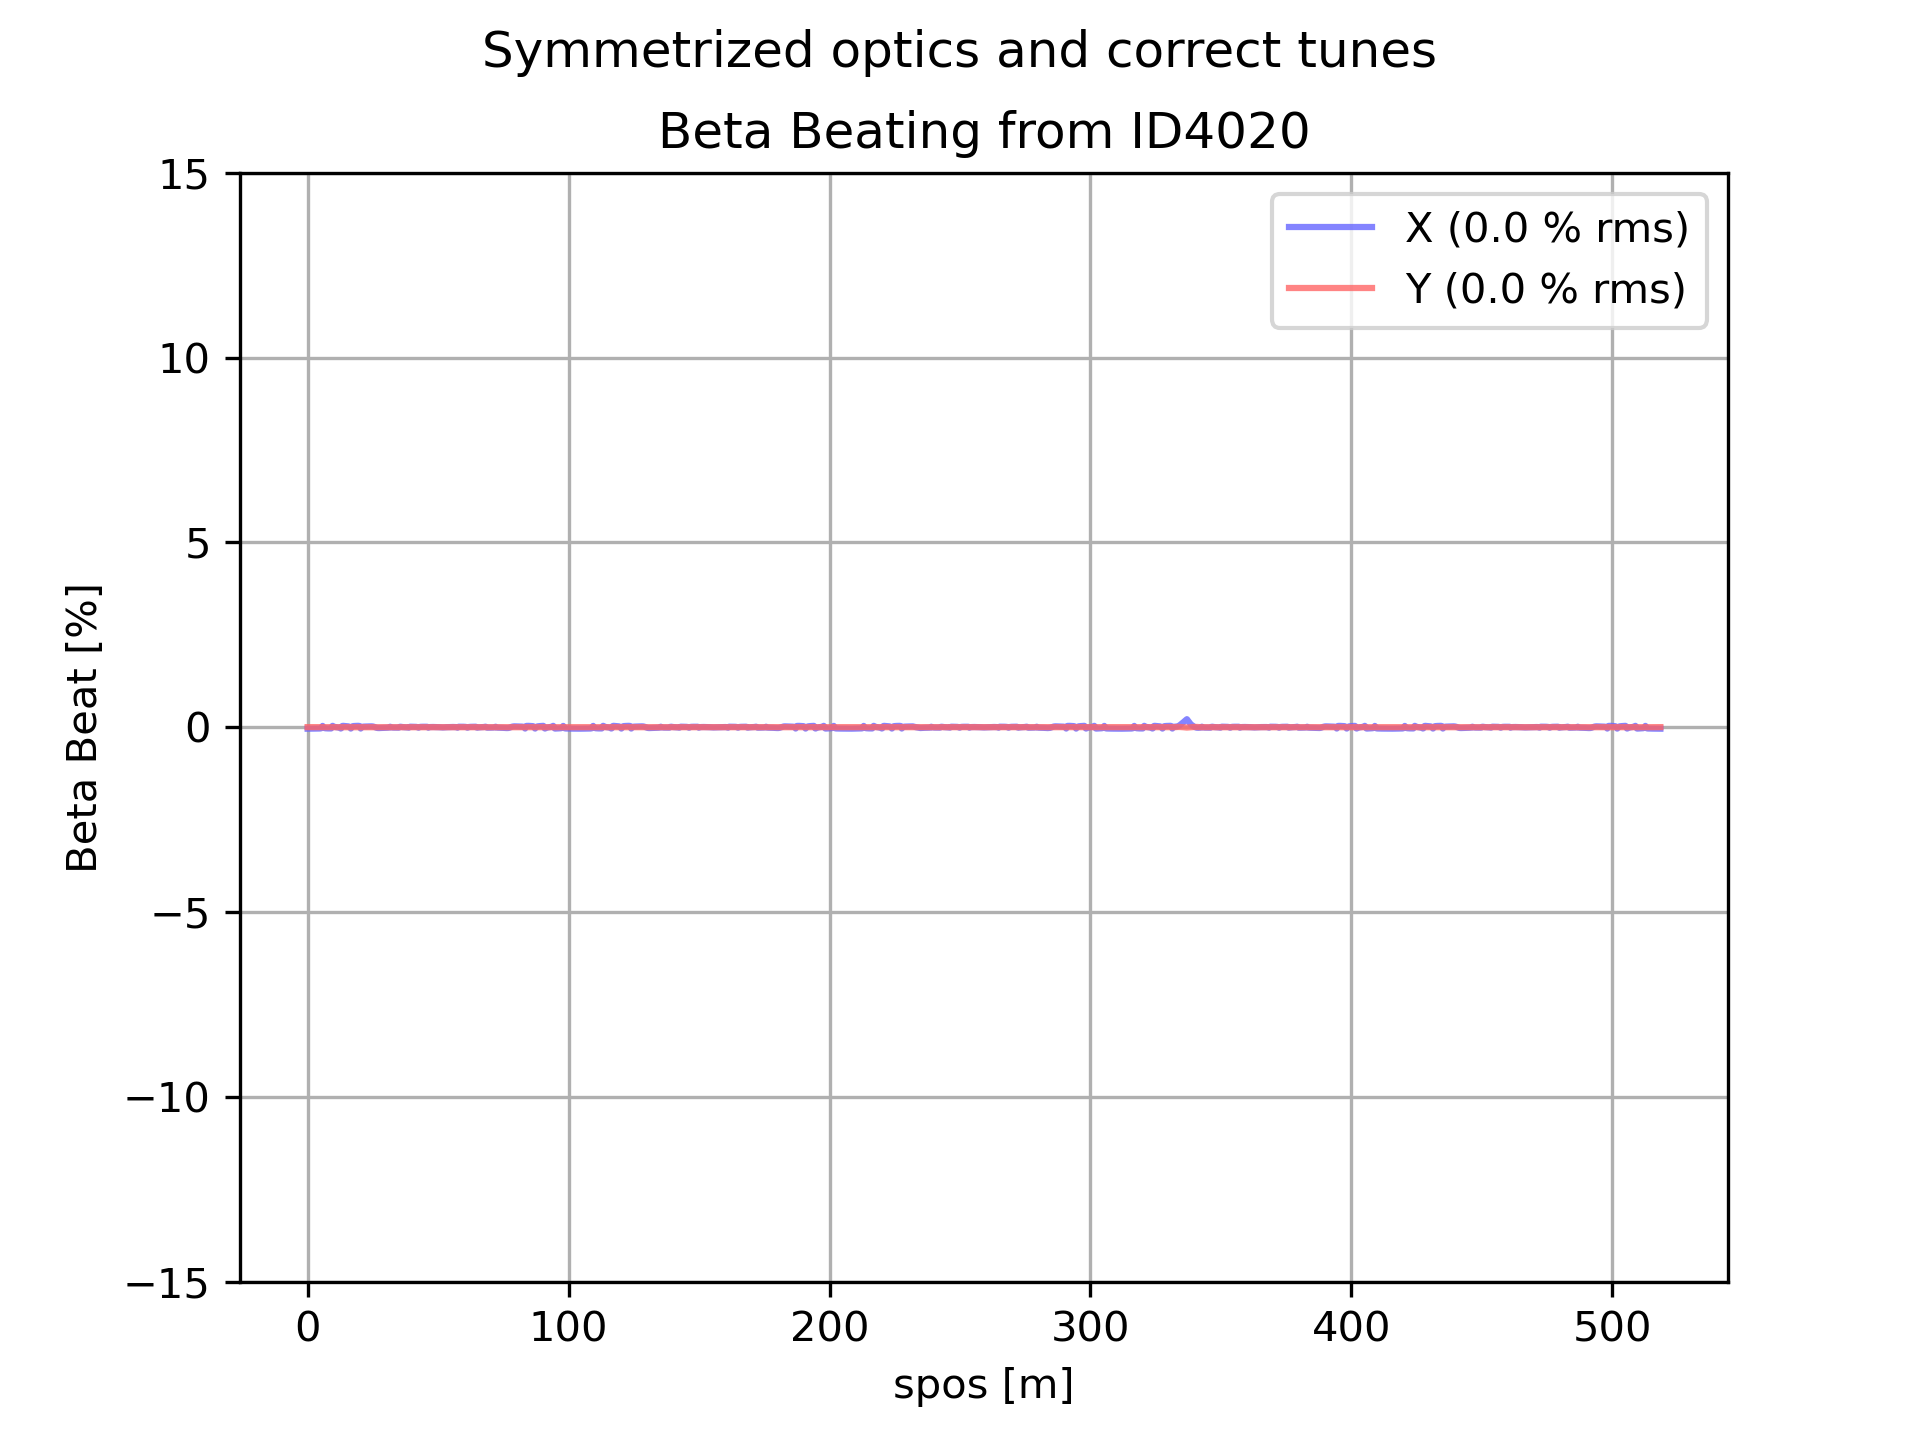
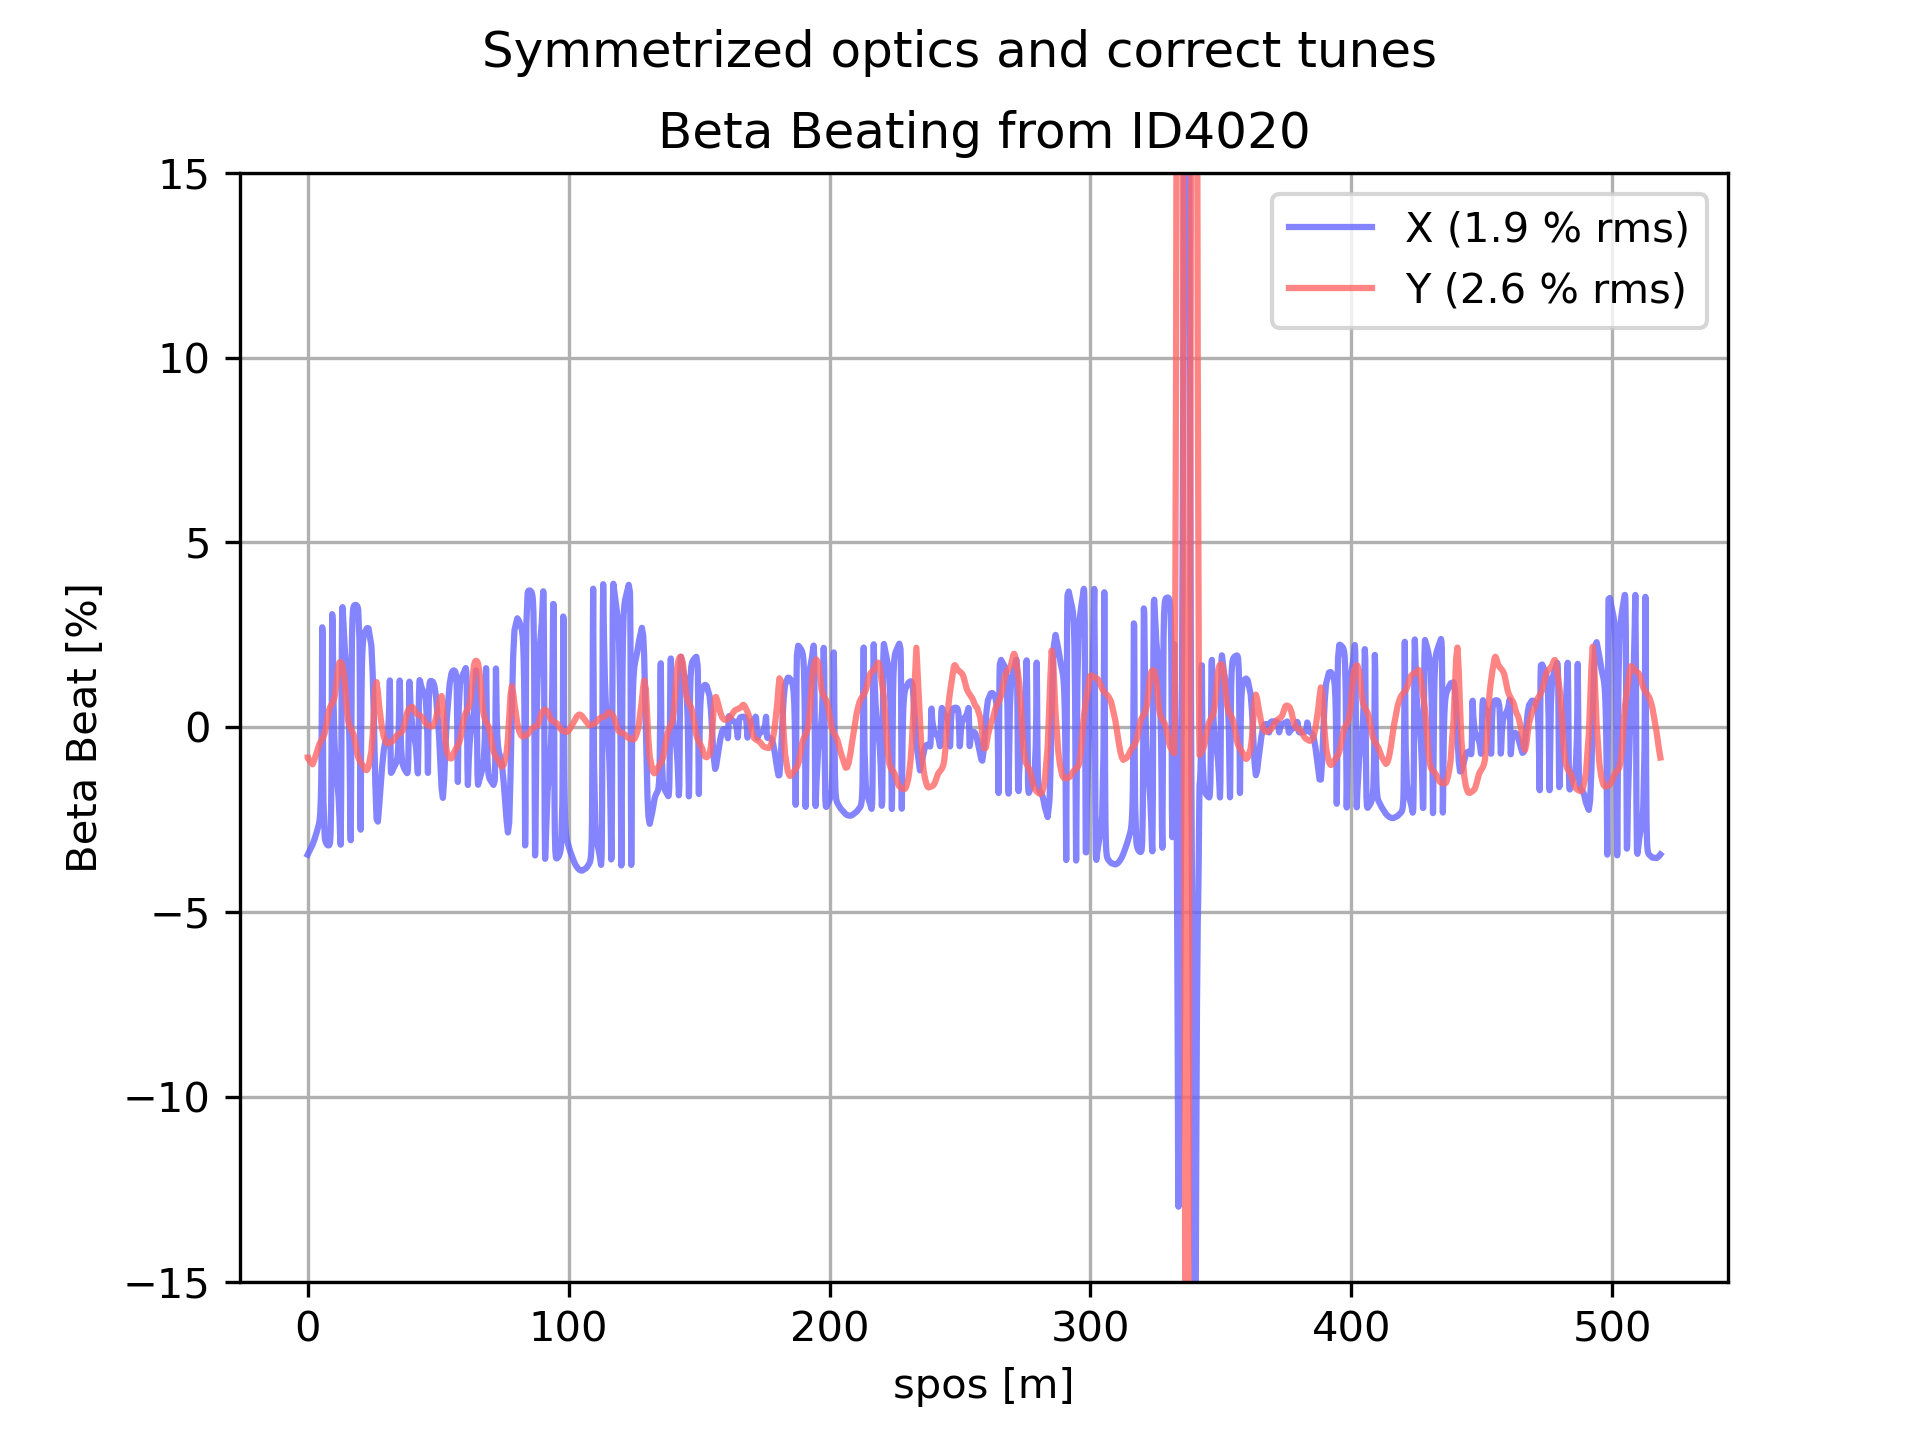
update wiggler scripts

Changed region(s): [[0.1562, 0.125, 0.875, 0.9062], [0.75, 0.1875, 0.7812, 0.2188]]

diff --git a/scripts/epu/legacy/symmetrization.py b/scripts/epu/legacy/symmetrization.py
@@ -2,6 +2,7 @@
 
 import numpy as np
 import matplotlib.pyplot as plt
+import utils
 
 from pyaccel.optics import twiss
 from pyaccel import optics as pyacc_opt
@@ -12,67 +13,34 @@ from idanalysis import optics as optics
 from idanalysis import model as model
 from idanalysis import optics as optics
 from idanalysis import EPUData
+from run_rk_traj import PHASES, GAPS
+
 import idanalysis
+import pymodels
 import pyaccel
 idanalysis.FOLDER_BASE = '/home/gabriel/repos-dev/'
 
 
-def create_epudata():
-    folder = idanalysis.FOLDER_BASE + EPUData.FOLDER_EPU_MAPS
-    configs = EPUData.EPU_CONFIGS
-    epudata = EPUData(folder=folder, configs=configs)
-    return epudata
-
-
-def create_model(epu_config_idx=None, rescale_kicks=1.0, **kwargs):
-    """Create pyaccel model."""
-
-    vchamber_on = kwargs.get('vchamber_on', False)
-    straight_nr = kwargs.get('straight_nr', None)
-
-    if epu_config_idx is None:
-      # create model withou IDs, if the case
-      model_ = model.create_model(ids=None, vchamber_on=vchamber_on)
-      config_label = None
-    else:
-
-      # create object with list of all possible EPU50 configurations
-      configs = create_epudata()
-
-      # get config label
-      config_label = configs.get_config_label(configs[epu_config_idx])
-
-      # list of IDs
-      nr_steps = kwargs.get('nr_steps', 40)
-      kmap_fname = configs.get_kickmap_filename(configs[epu_config_idx])
-      ids = model.get_id_epu_list(
-        kmap_fname, ids=None, nr_steps=nr_steps, rescale_kicks=rescale_kicks,
-        straight_nr=straight_nr)
-
-      # create model
-      model_ = model.create_model(ids=ids, vchamber_on=False)
-
+def create_model_ids():
+    """."""
+    print('--- model with kickmap ---')
+    ids = utils.create_ids(phase, gap, rescale_kicks=20)
+    model = pymodels.si.create_accelerator(ids=ids)
+    model.cavity_on = True
+    model.radiation_on = 1
+    twiss, *_ = pyaccel.optics.calc_twiss(model, indices='closed')
+    print('length : {:.4f} m'.format(model.length))
+    print('tunex  : {:.6f}'.format(twiss.mux[-1]/2/np.pi))
+    print('tuney  : {:.6f}'.format(twiss.muy[-1]/2/np.pi))
+    straight_nr = int(ids[0].subsec[2:4])
     # get knobs and beta locations
     if straight_nr is not None:
-      _, knobs, _ = optics.symm_get_knobs(model_, straight_nr)
-      locs_beta = optics.symm_get_locs_beta(knobs)
+        _, knobs, _ = optics.symm_get_knobs(model, straight_nr)
+        locs_beta = optics.symm_get_locs_beta(knobs)
     else:
-      knobs, locs_beta = None, None
+        knobs, locs_beta = None, None
 
-    return model_, config_label, knobs, locs_beta
-
-
-def create_model_with_id(id_config_idx, rescale_kicks=1.0, straight_nr=None):
-    if straight_nr is None:
-        straight_nr = 10
-    kwargs = {
-        'vchmaber_on': False,
-        'nr_steps': 40,
-        'straight_nr': straight_nr,
-    }
-    model1, config_label, *_ = \
-    create_model(epu_config_idx=id_config_idx, rescale_kicks=rescale_kicks, **kwargs)
-    return model1, config_label, straight_nr
+    return model, knobs, locs_beta
 
 
 def get_locs(model):
@@ -80,7 +48,8 @@ def get_locs(model):
     _, knobs, _ = optics.symm_get_knobs(model, straight_nr)
     locs_beta = optics.symm_get_locs_beta(knobs)
     locs = optics.symm_get_locs(model)
-    idx_begin, idx_end = optics.get_id_straigh_index_interval(model, straight_nr)
+    idx_begin, idx_end = optics.get_id_straigh_index_interval(
+        model, straight_nr)
     for loc in locs:
         if loc > idx_begin and loc < idx_end:
             sym_idx = loc
@@ -256,8 +225,7 @@ def run():
     loc_init, loc_mid, loc_end, knobs = get_locs(model0)
 
     # create model with id
-    model_id, *_ = create_model_with_id(id_config_idx=2,
-                 rescale_kicks=1.0, straight_nr=10)
+    model_id, *_ = create_model_ids()
     twiss1, *_ = pyacc_opt.calc_twiss(model_id, indices='closed')
 
     # calc optics for each model
@@ -282,4 +250,7 @@ def run():
 
 
 if __name__ == '__main__':
+
+    global phase, gap
+    phase, gap = PHASES[2], GAPS[-2]
     run()

diff --git a/scripts/wiggler/utils.py b/scripts/wiggler/utils.py
@@ -9,8 +9,8 @@ from idanalysis import IDKickMap
 
 ID_PERIOD = 180.0  # [mm]
 
-# FOLDER_BASE = '/home/gabriel/repos-dev/'
-FOLDER_BASE = '/home/ximenes/repos-dev/'
+FOLDER_BASE = '/home/gabriel/repos-dev/'
+# FOLDER_BASE = '/home/ximenes/repos-dev/'
 
 
 DATA_PATH = 'wiggler-2T-STI/measurement/magnetic/hallprobe/'
@@ -26,18 +26,18 @@ ID_CONFIGS = {
     'ID3979': 'gap 059.60mm/2022-08-25_WigglerSTI_059.60mm_U+0.00_D+0.00_Fieldmap_X=-20_20mm_Z=-1650_1650mm_ID=3979.dat',
 
     # wiggler without correctors
-    'ID3962': 'wiggler_without_correctors/2022-08-22_WigglerSTI_022.00mm_Fieldmap_X=-20_20mm_Z=-1650_1650mm_ID=3962.dat', 
-    'ID3963': 'wiggler_without_correctors/2022-08-22_WigglerSTI_023.00mm_Fieldmap_Z=-1650_1650mm_ID=3963.dat', 
-    'ID3964': 'wiggler_without_correctors/2022-08-22_WigglerSTI_023.95mm_Fieldmap_Z=-1650_1650mm_ID=3964.dat', 
-    'ID3965': 'wiggler_without_correctors/2022-08-22_WigglerSTI_026.90mm_Fieldmap_Z=-1650_1650mm_ID=3965.dat', 
-    'ID3966': 'wiggler_without_correctors/2022-08-22_WigglerSTI_034.80mm_Fieldmap_Z=-1650_1650mm_ID=3966.dat', 
-    'ID3967': 'wiggler_without_correctors/2022-08-22_WigglerSTI_042.70mm_Fieldmap_Z=-1650_1650mm_ID=3967.dat', 
-    'ID3968': 'wiggler_without_correctors/2022-08-22_WigglerSTI_051.65mm_Fieldmap_Z=-1650_1650mm_ID=3968.dat', 
-    'ID3969': 'wiggler_without_correctors/2022-08-22_WigglerSTI_059.60mm_Fieldmap_X=-20_20mm_Z=-1650_1650mm_ID=3969.dat', 
-    'ID3970': 'wiggler_without_correctors/2022-08-22_WigglerSTI_099.50mm_Fieldmap_Z=-1650_1650mm_ID=3970.dat', 
-    'ID3971': 'wiggler_without_correctors/2022-08-22_WigglerSTI_199.50mm_Fieldmap_Z=-1650_1650mm_ID=3971.dat', 
-    'ID3972': 'wiggler_without_correctors/2022-08-22_WigglerSTI_300.00mm_Fieldmap_Z=-1650_1650mm_ID=3972.dat', 
-    
+    'ID3962': 'wiggler_without_correctors/2022-08-22_WigglerSTI_022.00mm_Fieldmap_X=-20_20mm_Z=-1650_1650mm_ID=3962.dat',
+    'ID3963': 'wiggler_without_correctors/2022-08-22_WigglerSTI_023.00mm_Fieldmap_Z=-1650_1650mm_ID=3963.dat',
+    'ID3964': 'wiggler_without_correctors/2022-08-22_WigglerSTI_023.95mm_Fieldmap_Z=-1650_1650mm_ID=3964.dat',
+    'ID3965': 'wiggler_without_correctors/2022-08-22_WigglerSTI_026.90mm_Fieldmap_Z=-1650_1650mm_ID=3965.dat',
+    'ID3966': 'wiggler_without_correctors/2022-08-22_WigglerSTI_034.80mm_Fieldmap_Z=-1650_1650mm_ID=3966.dat',
+    'ID3967': 'wiggler_without_correctors/2022-08-22_WigglerSTI_042.70mm_Fieldmap_Z=-1650_1650mm_ID=3967.dat',
+    'ID3968': 'wiggler_without_correctors/2022-08-22_WigglerSTI_051.65mm_Fieldmap_Z=-1650_1650mm_ID=3968.dat',
+    'ID3969': 'wiggler_without_correctors/2022-08-22_WigglerSTI_059.60mm_Fieldmap_X=-20_20mm_Z=-1650_1650mm_ID=3969.dat',
+    'ID3970': 'wiggler_without_correctors/2022-08-22_WigglerSTI_099.50mm_Fieldmap_Z=-1650_1650mm_ID=3970.dat',
+    'ID3971': 'wiggler_without_correctors/2022-08-22_WigglerSTI_199.50mm_Fieldmap_Z=-1650_1650mm_ID=3971.dat',
+    'ID3972': 'wiggler_without_correctors/2022-08-22_WigglerSTI_300.00mm_Fieldmap_Z=-1650_1650mm_ID=3972.dat',
+
     # wiggler with correctors - gap 022.00mm
     'ID3977': 'gap 022.00mm/2022-08-25_WigglerSTI_022.00mm_U+0.00_D+0.00_Fieldmap_X=-20_20mm_Z=-1650_1650mm_ID=3977.dat',
     'ID3978': 'gap 022.00mm/2022-08-25_WigglerSTI_022.00mm_U-4.55_D+4.40_Fieldmap_X=-20_20mm_Z=-1650_1650mm_ID=3978.dat',
@@ -144,12 +144,11 @@ def create_ids(
     fname += 'kickmap-' + idconfig + '.txt'
     print(fname)
     idkmap = IDKickMap(kmap_fname=fname)
-    idkmap.load()
     kickx_up = rescale_kicks * idkmap.kickx_upstream  # [T².m²]
     kicky_up = rescale_kicks * idkmap.kicky_upstream  # [T².m²]
     kickx_down = rescale_kicks * idkmap.kickx_downstream  # [T².m²]
     kicky_down = rescale_kicks * idkmap.kicky_downstream  # [T².m²]
-    termination_kicks = [kickx_up, kicky_up, kickx_down, kicky_down] 
+    termination_kicks = [kickx_up, kicky_up, kickx_down, kicky_down]
     IDModel = pymodels.si.IDModel
     wig180 = IDModel(
         subsec = IDModel.SUBSECTIONS.ID14SB,

diff --git a/scripts/wiggler/analysis.py b/scripts/wiggler/analysis.py
@@ -67,7 +67,7 @@ def plot_beta_beating(twiss0, twiss1, twiss2, twiss3, idconfig, plot_flag=True):
     plt.suptitle('Symmetrized optics and uncorrect tunes')
     plt.legend()
     plt.grid()
-  
+
 
     #Compare optics between nominal value and symmetrized optics with tune correction
     dtunex, dtuney, bbeatx, bbeaty, bbeatx_rms, bbeaty_rms, bbeatx_absmax, bbeaty_absmax = calc_dtune_betabeat(twiss0,twiss3)
@@ -123,6 +123,8 @@ def create_model_ids(idconfig):
     print('--- model with kick-model wiggler ---')
     ids = utils.create_ids(idconfig=idconfig, rescale_kicks=1)
     model = pymodels.si.create_accelerator(ids=ids)
+    model.cavity_on = True
+    model.radiation_on = 1
     twiss, *_ = pyaccel.optics.calc_twiss(model, indices='closed')
     print('length : {:.4f} m'.format(model.length))
     print('tunex  : {:.6f}'.format(twiss.mux[-1]/2/np.pi))
@@ -135,7 +137,8 @@ def run(idconfig):
     # bare lattice
     ring0, twiss0 = create_model_bare()
     print()
-
+    ring0.cavity_on = True
+    ring0.radiation_on = 1
     # lattice with IDs
     ring1, twiss1, ids = create_model_ids(idconfig=idconfig)
     subsec = str(ids[0].subsec)[2:4]
@@ -148,24 +151,28 @@ def run(idconfig):
     goal_tunes = np.array([twiss0.mux[-1] / 2 / np.pi, twiss0.muy[-1] / 2 / np.pi])
     goal_beta = np.array([twiss0.betax[locs_beta], twiss0.betay[locs_beta]])
     goal_alpha = np.array([twiss0.alphax[locs_beta], twiss0.alphay[locs_beta]])
-   
+
     # correct orbit locally with ID correctors
     print('--- local orbit correction ---')
     ret = orbcorr.correct_orbit_local(
-        model1=ring1, id_famname='WIG180', correction_plane='x', plot=False)
-    dkickx1, dkickx2, dkicky1, dkicky2 =  ret[0]
+        ring0, ring1, 'WIG180',
+        correction_plane='x', plot=False)
+    dkickx1, dkickx2, dkicky1, dkicky2 = ret[0]
     fmts = 'correctors dk {:<10s} : {:+06.1f} {:+06.1f} urad'
     print(fmts.format('horizontal', dkickx1*1e6, dkickx2*1e6))
     print(fmts.format('vertical', dkicky1*1e6, dkicky2*1e6))
     # correct orbit residual globally with SOFB
-    orbcorr.correct_orbit_sofb(
-        model0=ring0, model1=ring1, id_famname='WIG180', nr_steps=5)
+    # orbcorr.correct_orbit_sofb(
+        # ring0, ring1, 'WIG180')
     twiss1, *_ = pyacc_opt.calc_twiss(ring1, indices='closed')
 
+    ring1.cavity_on = False
+    ring1.radiation_on = 0
     # symmetrize optics (local quad fam knobs)
     dk_tot = np.zeros(len(knobs))
     for i in range(7):
-        dk = optics.correct_symmetry_withbeta(ring1, straight_nr, goal_beta, goal_alpha)
+        dk = optics.correct_symmetry_withbeta(
+            ring1, straight_nr, goal_beta, goal_alpha)
         print('iteration #{}, dK: {}'.format(i+1, dk))
         dk_tot += dk
     for i, fam in enumerate(knobs):
@@ -193,4 +200,3 @@ if __name__ == '__main__':
     # run(idconfig='ID3979')  # gap 59.6 mm, correctors with zero current
     # run(idconfig = 'ID4017')  # gap 59.6 mm, correctors with best current
     run(idconfig = 'ID4020')  # gap 45.0 mm, correctors with zero current
-
